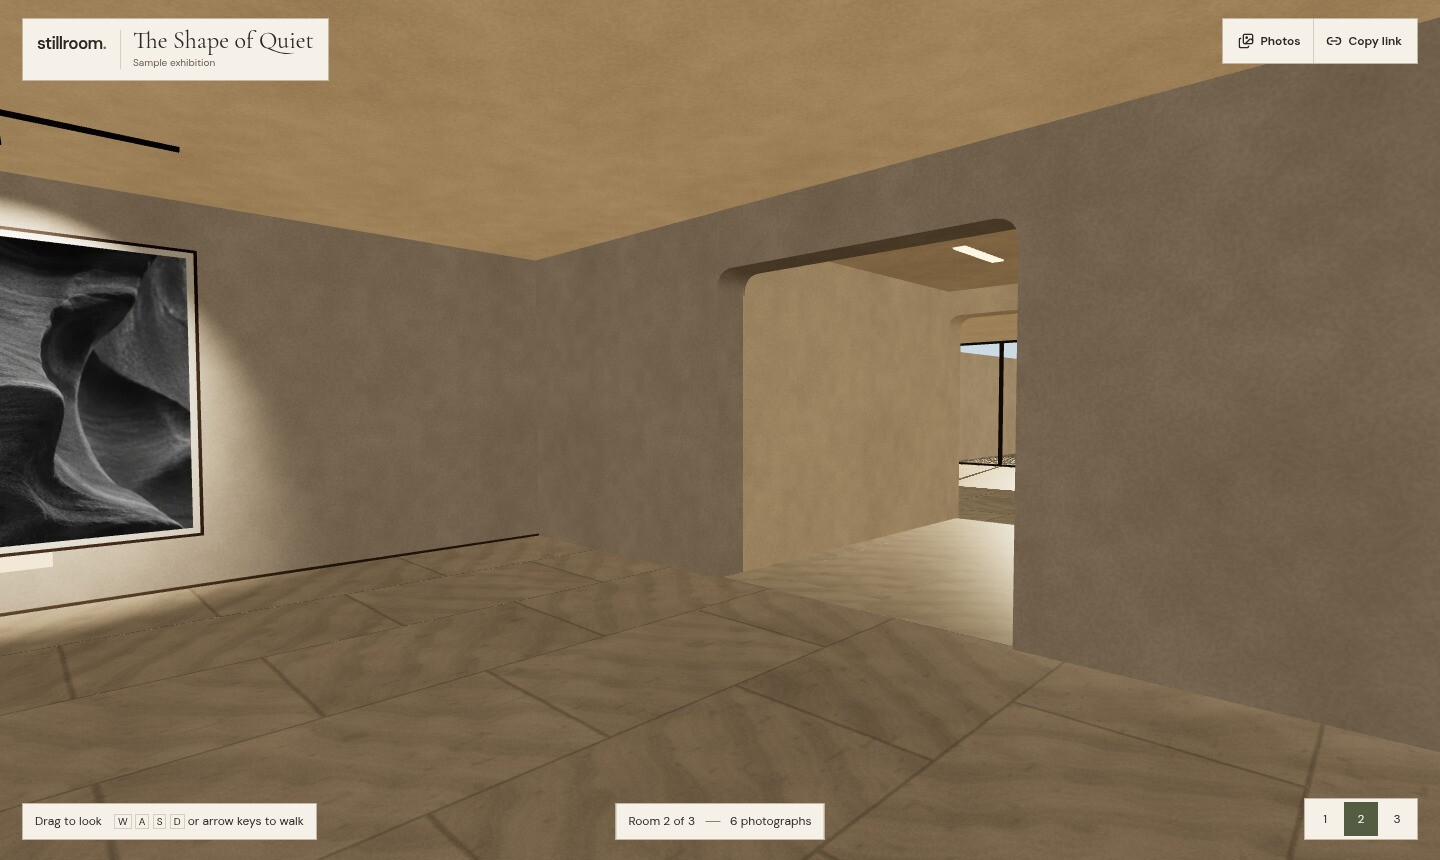
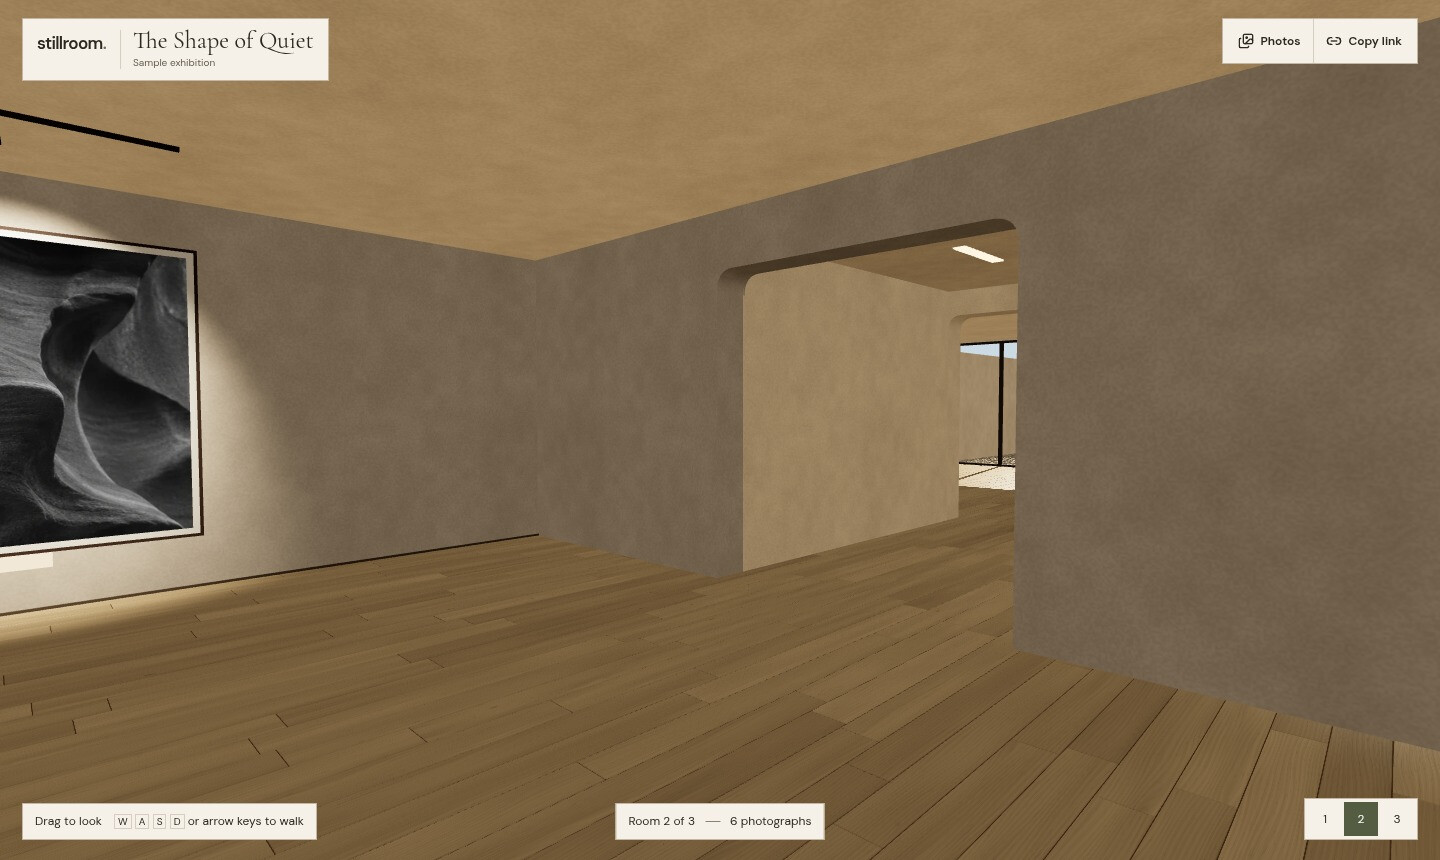
Install detailed oak floors throughout the galleries

diff --git a/app/lib/scene-finishes.ts b/app/lib/scene-finishes.ts
@@ -75,86 +75,133 @@ export function finishTexture(surface: Surface, renderer: THREE.WebGLRenderer) {
   return texture;
 }
 
-/**
- * Four vertices per stone slab share their own grain origin and brightness.
- * Keep the surface a single mesh per room or passage.
- */
-export function travertineGeometry(width: number, depth: number) {
-  const vertices: number[] = [];
-  const normals: number[] = [];
-  const uvs: number[] = [];
-  const slabs: number[] = [];
+/** World-aligned, independently beveled oak boards clipped to a rectangular floor. */
+export function oakFloorGeometry(width: number, depth: number, worldX: number, worldZ: number) {
+  const positions: number[] = [];
+  const boardInfo: number[] = [];
   const indices: number[] = [];
-  const tileWidth = 1.8;
-  const tileDepth = 1.25;
+  const boardLength = 2.25;
+  const boardWidth = 0.223;
+  const joint = 0.003;
+  const bevel = 0.0025;
+  const minX = worldX - width / 2;
+  const maxX = worldX + width / 2;
+  const minZ = worldZ - depth / 2;
+  const maxZ = worldZ + depth / 2;
+  const firstRow = Math.floor(minZ / boardWidth);
+  const lastRow = Math.ceil(maxZ / boardWidth);
 
-  for (let row = 0; row * tileDepth < depth; row++) {
-    const z0 = row * tileDepth;
-    const z1 = Math.min(depth, z0 + tileDepth);
-    const stagger = (row % 2) * (tileWidth / 2);
-    for (let col = 0; col * tileWidth - stagger < width; col++) {
-      const origin = col * tileWidth - stagger;
-      const x0 = Math.max(0, origin);
-      const x1 = Math.min(width, origin + tileWidth);
-      const tone = lattice(col + 113, row + Math.round(width * 47));
-      const offsetV = lattice(col + 11, row + 291);
-      const flip = tone < 0 ? -1 : 1;
-      const first = vertices.length / 3;
-      for (const [x, z] of [[x0, z0], [x0, z1], [x1, z0], [x1, z1]]) {
-        const u = (x - origin) / tileWidth;
-        const v = (z - z0) / tileDepth;
-        vertices.push(x - width / 2, 0, z - depth / 2);
-        normals.push(0, 1, 0);
-        uvs.push(tone + flip * u * 0.58, offsetV + v * 0.4);
-        slabs.push(u, v, tone + 0.5);
-      }
-      indices.push(first, first + 1, first + 2, first + 2, first + 1, first + 3);
+  function vertex(x: number, z: number, y: number, u: number, v: number, tone: number) {
+    positions.push(x - worldX, y, z - worldZ);
+    boardInfo.push(u, v, tone);
+  }
+  type Corner = [number, number, number, number, number];
+  function quad(a: Corner, b: Corner, c: Corner, d: Corner, tone: number) {
+    const base = positions.length / 3;
+    vertex(a[0], a[1], a[2], a[3], a[4], tone);
+    vertex(b[0], b[1], b[2], b[3], b[4], tone);
+    vertex(c[0], c[1], c[2], c[3], c[4], tone);
+    vertex(d[0], d[1], d[2], d[3], d[4], tone);
+    // Counter-clockwise from above, so the plank tops face the room lights.
+    indices.push(base, base + 2, base + 1, base, base + 3, base + 2);
+  }
+
+  for (let row = firstRow; row <= lastRow; row++) {
+    const z0 = row * boardWidth + joint / 2;
+    const z1 = (row + 1) * boardWidth - joint / 2;
+    if (z1 <= minZ || z0 >= maxZ) continue;
+    const stagger = (0.5 + lattice(173, row + 37)) * boardLength;
+    const jointAt = (col: number) => col * boardLength + stagger + 0.52 * lattice(col + 81, row + 511);
+    const firstBoard = Math.floor((minX - stagger) / boardLength) - 1;
+    const lastBoard = Math.ceil((maxX - stagger) / boardLength) + 1;
+    for (let col = firstBoard; col <= lastBoard; col++) {
+      const start = jointAt(col);
+      const end = jointAt(col + 1);
+      const boardStart = start + joint / 2;
+      const boardEnd = end - joint / 2;
+      const x0 = Math.max(minX, boardStart);
+      const x1 = Math.min(maxX, boardEnd);
+      const cz0 = Math.max(minZ, z0);
+      const cz1 = Math.min(maxZ, z1);
+      if (x1 - x0 < 0.0001 || cz1 - cz0 < 0.0001) continue;
+      const seed = lattice(col + 317, row + 719);
+      const tone = seed * 0.5 + lattice(col + 977, row + 41) * 0.22;
+      const u0 = (x0 - start) / (end - start);
+      const u1 = (x1 - start) / (end - start);
+      const v0 = (cz0 - row * boardWidth) / boardWidth;
+      const v1 = (cz1 - row * boardWidth) / boardWidth;
+      // Keep cut edges flush where a board continues across a room or corridor.
+      const bx = Math.min(bevel, (x1 - x0) / 3);
+      const bz = Math.min(bevel, (cz1 - cz0) / 3);
+      const ix0 = x0 === boardStart ? x0 + bx : x0;
+      const ix1 = x1 === boardEnd ? x1 - bx : x1;
+      const iz0 = cz0 === z0 ? cz0 + bz : cz0;
+      const iz1 = cz1 === z1 ? cz1 - bz : cz1;
+      const low = 0.0014;
+      const high = 0.0043;
+      if (iz0 > cz0) quad([x0, cz0, low, u0, v0], [x1, cz0, low, u1, v0], [ix1, iz0, high, u1, v0], [ix0, iz0, high, u0, v0], tone);
+      if (ix1 < x1) quad([x1, cz0, low, u1, v0], [x1, cz1, low, u1, v1], [ix1, iz1, high, u1, v1], [ix1, iz0, high, u1, v0], tone);
+      if (iz1 < cz1) quad([x1, cz1, low, u1, v1], [x0, cz1, low, u0, v1], [ix0, iz1, high, u0, v1], [ix1, iz1, high, u1, v1], tone);
+      if (ix0 > x0) quad([x0, cz1, low, u0, v1], [x0, cz0, low, u0, v0], [ix0, iz0, high, u0, v0], [ix0, iz1, high, u0, v1], tone);
+      quad([ix0, iz0, high, u0, v0], [ix1, iz0, high, u1, v0], [ix1, iz1, high, u1, v1], [ix0, iz1, high, u0, v1], tone);
     }
   }
+
   const geometry = new THREE.BufferGeometry();
-  geometry.setAttribute("position", new THREE.Float32BufferAttribute(vertices, 3));
-  geometry.setAttribute("normal", new THREE.Float32BufferAttribute(normals, 3));
-  geometry.setAttribute("uv", new THREE.Float32BufferAttribute(uvs, 2));
-  geometry.setAttribute("slabInfo", new THREE.Float32BufferAttribute(slabs, 3));
+  geometry.setAttribute("position", new THREE.Float32BufferAttribute(positions, 3));
+  geometry.setAttribute("boardInfo", new THREE.Float32BufferAttribute(boardInfo, 3));
   geometry.setIndex(indices);
+  geometry.computeVertexNormals();
   return geometry;
 }
 
-/** Lightly occlude the stone joints and soften the contact shadows under the bench. */
-export function addTravertineShader(material: THREE.MeshStandardMaterial, seat?: [number, number], turnSeat = false) {
+/** Oak grain and softly darkened joints, with restrained board-to-board variation. */
+export function addOakFloorShader(material: THREE.MeshStandardMaterial, seat?: [number, number], turnSeat = false) {
   material.onBeforeCompile = (shader) => {
     shader.uniforms.stillroomSeat = { value: new THREE.Vector2(...(seat ?? [0, 0])) };
     shader.uniforms.stillroomSeatAmount = { value: seat ? 1 : 0 };
     shader.uniforms.stillroomSeatTurn = { value: turnSeat ? 1 : 0 };
     shader.vertexShader = shader.vertexShader
-      .replace("#include <common>", `#include <common>
-attribute vec3 slabInfo;
-varying vec3 vStillroomSlab;
-varying vec2 vStillroomFloor;`)
-      .replace("#include <begin_vertex>", `#include <begin_vertex>
-vStillroomSlab = slabInfo;
-vStillroomFloor = position.xz;`);
+      .replace("#include <common>", `#include <common>\nattribute vec3 boardInfo;\nvarying vec3 vStillroomBoard;\nvarying vec2 vStillroomFloor;`)
+      .replace("#include <begin_vertex>", `#include <begin_vertex>\nvStillroomBoard = boardInfo;\nvStillroomFloor = position.xz;`);
     shader.fragmentShader = shader.fragmentShader
-      .replace("#include <common>", `#include <common>
-varying vec3 vStillroomSlab;
-varying vec2 vStillroomFloor;
-uniform vec2 stillroomSeat;
-uniform float stillroomSeatAmount;
-uniform float stillroomSeatTurn;
-
-float stillroomGroundShadow(vec2 offset, vec2 spread) {
-  vec2 radius = offset / spread;
-  return exp(-dot(radius, radius));
+      .replace("#include <common>", `#include <common>\nvarying vec3 vStillroomBoard;\nvarying vec2 vStillroomFloor;\nuniform vec2 stillroomSeat;\nuniform float stillroomSeatAmount;\nuniform float stillroomSeatTurn;\n
+float stillroomWoodHash(vec2 p) {
+  vec3 h = fract(p.xyx * vec3(0.1031, 0.1030, 0.0973));
+  h += dot(h, h.yzx + 33.33);
+  return fract((h.x + h.y) * h.z);
+}
+float stillroomWoodNoise(vec2 p) {
+  vec2 i = floor(p); vec2 f = fract(p); f = f * f * (3.0 - 2.0 * f);
+  return mix(mix(stillroomWoodHash(i), stillroomWoodHash(i + vec2(1.0, 0.0)), f.x),
+             mix(stillroomWoodHash(i + vec2(0.0, 1.0)), stillroomWoodHash(i + vec2(1.0)), f.x), f.y);
 }`)
       .replace("#include <map_fragment>", `#include <map_fragment>
-vec2 stillroomEdge = min(vStillroomSlab.xy, vec2(1.0) - vStillroomSlab.xy);
-float stillroomGrout = smoothstep(0.002, 0.013, min(stillroomEdge.x, stillroomEdge.y));
+float stillroomSeed = vStillroomBoard.z * 223.0;
+vec2 stillroomUV = vStillroomBoard.xy;
+float stillroomDrift = stillroomWoodNoise(vec2(stillroomUV.x * 3.6 + stillroomSeed, stillroomUV.y * 3.2)) - 0.5;
+vec2 stillroomKnotCenter = vec2(
+  0.18 + 0.64 * stillroomWoodHash(vec2(stillroomSeed, 3.17)),
+  0.20 + 0.60 * stillroomWoodHash(vec2(stillroomSeed, 5.31)));
+vec2 stillroomKnotOffset = (stillroomUV - stillroomKnotCenter) * vec2(7.0, 1.9);
+float stillroomKnotDistance = length(stillroomKnotOffset);
+float stillroomKnotWeight = step(0.77, stillroomWoodHash(vec2(stillroomSeed, 9.43)));
+float stillroomKnotFlow = stillroomKnotWeight * exp(-5.0 * stillroomKnotDistance);
+float stillroomLongGrain = stillroomUV.y + 0.24 * stillroomDrift + 0.035 * sin(stillroomUV.x * 8.0 + stillroomSeed)
+  + 0.27 * stillroomKnotFlow * stillroomKnotOffset.y;
+float stillroomFine = stillroomWoodNoise(vec2(stillroomUV.x * 10.0 + stillroomSeed, stillroomLongGrain * 120.0)) - 0.5;
+float stillroomGrowth = stillroomLongGrain * 12.0 + stillroomSeed;
+float stillroomRings = sin(stillroomGrowth * 6.28318) * (1.0 - smoothstep(0.22, 0.85, fwidth(stillroomGrowth)));
+float stillroomFleck = smoothstep(0.73, 0.96, stillroomWoodNoise(vec2(stillroomUV.x * 39.0 + stillroomSeed, stillroomLongGrain * 76.0)));
+float stillroomKnot = stillroomKnotWeight * (1.0 - smoothstep(0.018, 0.14, stillroomKnotDistance));
+float stillroomGrain = 1.0 + stillroomDrift * 0.16 + stillroomFine * 0.085 + stillroomRings * 0.039 - stillroomFleck * 0.066 - stillroomKnot * 0.21;
 vec2 stillroomSeatOffset = vStillroomFloor - stillroomSeat;
 stillroomSeatOffset = mix(stillroomSeatOffset, stillroomSeatOffset.yx, stillroomSeatTurn);
-float stillroomShadow = 0.17 * stillroomGroundShadow(stillroomSeatOffset + vec2(0.07, 0.11), vec2(0.92, 0.44));
-stillroomShadow += 0.30 * stillroomGroundShadow(vec2(abs(stillroomSeatOffset.x) - 0.67, stillroomSeatOffset.y), vec2(0.19, 0.21));
-diffuseColor.rgb *= mix(0.76, 1.0, stillroomGrout) * mix(0.93, 1.05, vStillroomSlab.z)
-  * (1.0 - stillroomShadow * stillroomSeatAmount);`);
+float stillroomSeatShadow = 0.17 * exp(-dot(stillroomSeatOffset + vec2(0.07, 0.11), stillroomSeatOffset + vec2(0.07, 0.11)) / 0.82);
+stillroomSeatShadow += 0.30 * exp(-pow((abs(stillroomSeatOffset.x) - 0.67) / 0.19, 2.0) - pow(stillroomSeatOffset.y / 0.21, 2.0));
+diffuseColor.rgb *= stillroomGrain * (1.0 + vStillroomBoard.z * 0.43) * (1.0 - stillroomSeatShadow * stillroomSeatAmount);`)
+      .replace("#include <roughnessmap_fragment>", `#include <roughnessmap_fragment>
+roughnessFactor = clamp(roughnessFactor + (stillroomFine * -0.045) + stillroomFleck * 0.035, 0.35, 0.78);`);
   };
-  material.customProgramCacheKey = () => "stillroom-travertine-v2";
+  material.customProgramCacheKey = () => "stillroom-oak-floor-v1";
 }

diff --git a/app/lib/gallery-scene.ts b/app/lib/gallery-scene.ts
@@ -1,7 +1,7 @@
 import * as THREE from "three";
 import { portalGeometry } from "./gallery-architecture";
 import { createGalleryLayout, type Bounds, type GalleryConnection, type GalleryRoom, type Wall } from "./gallery-layout";
-import { addTravertineShader, finishTexture, travertineGeometry } from "./scene-finishes";
+import { addOakFloorShader, finishTexture, oakFloorGeometry } from "./scene-finishes";
 import { createOliveTree } from "./olive-tree";
 import { RoundedBoxGeometry } from "three/addons/geometries/RoundedBoxGeometry.js";
 
@@ -58,8 +58,13 @@ export function createScene(artworks: WorldArtwork[], renderer: THREE.WebGLRende
   const stoneTexture = finishTexture("stone", renderer);
   const woodTexture = finishTexture("oak", renderer);
   const plaster = new THREE.MeshStandardMaterial({ color: "#d9cbb9", map: plasterTexture, roughness: 0.96 });
-  const floor = new THREE.MeshStandardMaterial({ color: "#bbaa92", map: stoneTexture, bumpMap: plasterTexture, bumpScale: 0.018, roughness: 0.56 });
-  addTravertineShader(floor);
+  const warmOakFloor = new THREE.MeshStandardMaterial({ color: "#b19a77", roughness: 0.46 });
+  const entranceOakFloor = warmOakFloor.clone();
+  const smokedOakFloor = new THREE.MeshStandardMaterial({ color: "#6e5743", roughness: 0.52 });
+  const oakJoints = new THREE.MeshStandardMaterial({ color: "#765c40", roughness: 0.82 });
+  addOakFloorShader(warmOakFloor);
+  addOakFloorShader(entranceOakFloor, [entrance.bounds.minX + 0.78 - entrance.x, 0.36], true);
+  addOakFloorShader(smokedOakFloor);
   const trim = new THREE.MeshStandardMaterial({ color: "#635342", roughness: 0.82 });
   const frame = new THREE.MeshStandardMaterial({ color: "#463326", roughness: 0.72 });
   const mat = new THREE.MeshStandardMaterial({ color: "#f7f0e1", roughness: 0.9 });
@@ -69,16 +74,9 @@ export function createScene(artworks: WorldArtwork[], renderer: THREE.WebGLRende
   });
   const creamCeiling = limestone.clone();
   creamCeiling.emissiveIntensity = 0.40;
-  const palePaving = new THREE.MeshStandardMaterial({
-    color: "#c6b69b", map: stoneTexture, bumpMap: plasterTexture, bumpScale: 0.014, roughness: 0.45,
-  });
   const charcoal = new THREE.MeshStandardMaterial({
     color: "#635a4f", map: plasterTexture, bumpMap: plasterTexture, bumpScale: 0.039, roughness: 0.86,
     emissive: "#67594c", emissiveIntensity: 0.16,
-  });
-  const graphite = new THREE.MeshStandardMaterial({
-    color: "#473f35", map: stoneTexture, bumpMap: plasterTexture, bumpScale: 0.014, roughness: 0.27, metalness: 0.05,
-    emissive: "#625044", emissiveMap: stoneTexture, emissiveIntensity: 0.13,
   });
   const darkOak = new THREE.MeshStandardMaterial({
     color: "#594130", map: woodTexture, bumpMap: woodTexture, bumpScale: 0.027, roughness: 0.60,
@@ -88,10 +86,7 @@ export function createScene(artworks: WorldArtwork[], renderer: THREE.WebGLRende
   benchWood.emissiveIntensity = 0.13;
   const bronze = new THREE.MeshStandardMaterial({ color: "#615043", metalness: 0.36, roughness: 0.36 });
   const glass = new THREE.MeshBasicMaterial({ color: "#e6e9e2", transparent: true, opacity: 0.065, side: THREE.DoubleSide, depthWrite: false });
-  const daylightFloor = palePaving.clone();
   const charcoalTrim = new THREE.MeshStandardMaterial({ color: "#302820", roughness: 0.61 });
-  addTravertineShader(daylightFloor, [entrance.bounds.minX + 0.78 - entrance.x, 0.36], true);
-  addTravertineShader(graphite);
   const passageLight = new THREE.MeshBasicMaterial({ color: "#fff5e2", toneMapped: false });
   const shadow = createShadow();
   const group = new THREE.Group();
@@ -137,8 +132,10 @@ export function createScene(artworks: WorldArtwork[], renderer: THREE.WebGLRende
     const print = isPrintRoom(index);
     const wallFinish = court ? limestone : print ? charcoal : plaster;
     const start = group.children.length;
-    const paving = court ? daylightFloor : print ? graphite : floor;
-    add(travertineGeometry(width, depth), paving, x, 0, z);
+    const paving = print ? smokedOakFloor : court ? entranceOakFloor : warmOakFloor;
+    add(new THREE.PlaneGeometry(width, depth), oakJoints, x, 0.001, z).rotation.x = -Math.PI / 2;
+    const boards = add(oakFloorGeometry(width, depth, x, z), paving, x, 0, z);
+    boards.receiveShadow = true;
     box(width + 0.14, 0.19, depth + 0.14, x, FLAT_CEILING + 0.095, z, print ? darkOak : creamCeiling);
 
     for (const wall of WALLS) {
@@ -272,7 +269,7 @@ export function createScene(artworks: WorldArtwork[], renderer: THREE.WebGLRende
         object.traverse((child) => {
           if (!(child instanceof THREE.Mesh) || child.material === glass
             || (child instanceof THREE.InstancedMesh && child.receiveShadow)) return;
-          child.castShadow = child.material !== paving;
+          child.castShadow = child.material !== paving && child.material !== oakJoints;
           child.receiveShadow = true;
         });
       }
@@ -285,8 +282,11 @@ export function createScene(artworks: WorldArtwork[], renderer: THREE.WebGLRende
     const x = (bounds.minX + bounds.maxX) / 2;
     const z = (bounds.minZ + bounds.maxZ) / 2;
     const runsX = fromWall === "east" || fromWall === "west";
-    const passageFloor = isPrintRoom(to) ? graphite : from === 0 ? palePaving : floor;
-    add(travertineGeometry(width, depth), passageFloor, x, 0, z);
+    const printPassage = isPrintRoom(from) || isPrintRoom(to);
+    const passageFloor = printPassage ? smokedOakFloor : warmOakFloor;
+    add(new THREE.PlaneGeometry(width, depth), oakJoints, x, 0.001, z).rotation.x = -Math.PI / 2;
+    const boards = add(oakFloorGeometry(width, depth, x, z), passageFloor, x, 0, z);
+    boards.receiveShadow = true;
     const passageWall = isPrintRoom(to) ? charcoal : from === 0 ? limestone : plaster;
     const passageHeight = 3.22;
     box(width + (runsX ? -0.58 : 0.15), 0.10, depth + (runsX ? 0.15 : -0.58),

diff --git a/README.md b/README.md
@@ -14,15 +14,15 @@ Choose JPG, PNG, WebP, or AVIF files. Add a title and reorder the photographs be
 
 ### Courtyard entrance
 
-Bronze glazing looks onto an olive courtyard. Daylight throws the tree and window-frame shadows across the limestone floor beside a low stone bench. The sample exhibition, *The Shape of Quiet*, hangs six generated photographs across three rooms.
+Bronze glazing looks onto an olive courtyard. Daylight throws the tree and window-frame shadows across the warm oak floor beside a low limestone bench. The sample exhibition, *The Shape of Quiet*, hangs six generated photographs across three rooms.
 
-![Sunlit Stillroom entrance with an olive courtyard, a limestone bench, and two framed photographs](docs/screenshots/gallery.jpg)
+![Sunlit Stillroom entrance with an olive courtyard, oak flooring, a limestone bench, and two framed photographs](docs/screenshots/gallery.jpg)
 
 ### Print wing
 
-The last room of a multiroom exhibition pairs a flat timber ceiling with graphite paving, warm spotlights, and a low wooden bench beneath the featured print.
+The last room of a multiroom exhibition pairs a flat timber ceiling with smoked oak boards, warm spotlights, and a low wooden bench beneath the featured print.
 
-![The dark print wing with a timber ceiling, charcoal walls, and a broad passage between rooms](docs/screenshots/print-wing.jpg)
+![The dark print wing with a timber ceiling, smoked oak flooring, and a broad passage between rooms](docs/screenshots/print-wing.jpg)
 
 ### Passages between rooms
 
@@ -59,7 +59,7 @@ The 3D viewer uses WebGL 2. The **Photos** index provides a browser-based way to
 ## How it works
 
 - **Floor plans.** The number of supplied photographs determines the room count, with up to seven rooms in a 50-photo exhibition. The ordered aspect ratios seed a deterministic layout with varied room dimensions and positions. Connected corridors make every room walkable. Wall placement reserves door clearance and keeps the original image proportions.
-- **Renderer.** Three.js draws the scene at eye level. The courtyard uses a static shadow map for the glazing and the olive tree. Procedural materials and custom GLSL give the stone varied slabs, shaded joints, and contact shading beside the limestone seat. The print wing uses grain-mapped timber, graphite paving, and a fixed budget of warm spotlights. The renderer redraws when the camera, viewport, or image textures change. The photograph surfaces use sRGB textures and retain their original color balance.
+- **Renderer.** Three.js draws the scene at eye level. The courtyard uses a static shadow map for the glazing and the olive tree. Procedural materials and custom GLSL give the oak floors varied boards, long grain, small knots, and a soft sheen. The print wing uses darker smoked oak and a fixed budget of warm spotlights. The renderer redraws when the camera, viewport, or image textures change. The photograph surfaces use sRGB textures and retain their original color balance.
 - **Drafts.** The browser prepares web-sized photographs for display and saves the draft in IndexedDB. It uploads each photograph separately after the creator chooses to publish.
 - **Publishing.** A Cloudflare Worker stores uploads in an R2 bucket. It verifies that all of the creator's photographs are present before publishing the exhibition manifest. Public links serve that manifest and its photographs. Upload and publish routes require the creator's authenticated session.
 
@@ -70,7 +70,7 @@ The 3D viewer uses WebGL 2. The **Photos** index provides a browser-based way to
 | [`app/world.tsx`](app/world.tsx) | Camera, mouse and touch input, and frame selection |
 | [`app/lib/gallery-layout.ts`](app/lib/gallery-layout.ts) | Room graph, corridors, and artwork placement |
 | [`app/lib/gallery-scene.ts`](app/lib/gallery-scene.ts) | Scene assembly, lighting, collision, and texture loading |
-| [`app/lib/scene-finishes.ts`](app/lib/scene-finishes.ts) | Procedural materials, stone geometry, and GLSL |
+| [`app/lib/scene-finishes.ts`](app/lib/scene-finishes.ts) | Procedural materials, oak floor geometry, and GLSL |
 | [`app/lib/olive-tree.ts`](app/lib/olive-tree.ts) | Procedural branches and instanced olive foliage |
 | [`app/api/gallery/`](app/api/gallery/) | Upload, publication, and public readback |
 

diff --git a/DESIGN.md b/DESIGN.md
@@ -102,7 +102,7 @@ components:
 
 ## Overview
 
-The gallery opens beside a glazed olive courtyard with flat limestone planes, then leads through offset passages to a darker print wing with graphite flooring and a flat timber ceiling. The interface borrows the proportions and typography of museum labels.
+The gallery opens beside a glazed olive courtyard with flat limestone planes and a warm oak floor, then leads through offset passages to a darker print wing with smoked oak and a flat timber ceiling. The interface borrows the proportions and typography of museum labels.
 
 - Make photographs the focal points along the walk. Frame each in a slim dark wood surround with a cream mat and a small label below.
 - Let the room occupy the full viewport. Put exhibition information, actions, and movement controls in compact panels around its edges.
@@ -118,7 +118,7 @@ Olive marks the main action, the current room, linked file selection, and the it
 
 Parchment and warm ink carry the interface. Use muted ink for instructions and counts, paper rules to divide content, and a slightly stronger border to set controls apart from the rendered room. The close-look view uses a charcoal-brown field and pale captions.
 
-Warm limestone and bronze frame the entrance. The print wing pairs charcoal plaster and graphite slabs with dark timber. Its controls use a dark brown plate, pale lettering, and a warm divider. Dark frames and cream mats surround the work. Artwork uses unlit image surfaces to preserve each photograph's colors.
+Warm limestone and bronze frame the entrance. The print wing pairs charcoal plaster, a dark timber ceiling, and smoked oak floorboards. Its controls use a dark brown plate, pale lettering, and a warm divider. Dark frames and cream mats surround the work. Artwork uses unlit image surfaces to preserve each photograph's colors.
 
 ## Typography
 
@@ -132,7 +132,7 @@ Viewer controls sit at the top corners above the full-viewport scene. On wide sc
 
 ## Elevation & Depth
 
-The interface uses flat surfaces, visible hairline rules, and tonal changes for hover. Glazing bars and leaves cast angled shadows into the entrance, while slim ceiling tracks wash the work in the print wing with warm light. Slab grain and shaded joints give the paving depth. The index adds a translucent warm-black scrim, while the full-screen photograph view uses a solid charcoal-brown backdrop.
+The interface uses flat surfaces, visible hairline rules, and tonal changes for hover. Glazing bars and leaves cast angled shadows into the entrance, while slim ceiling tracks wash the work in the print wing with warm light. Visible oak grain and shaded joints give the floors depth. The index adds a translucent warm-black scrim, while the full-screen photograph view uses a solid charcoal-brown backdrop.
 
 ## Shapes
 
